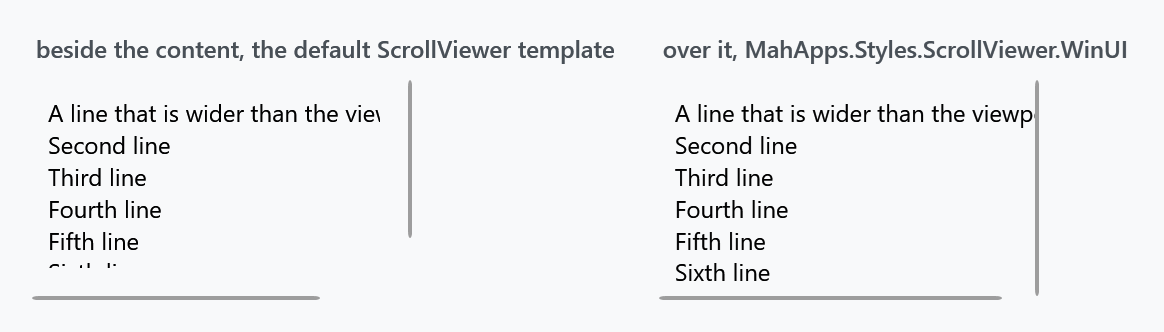
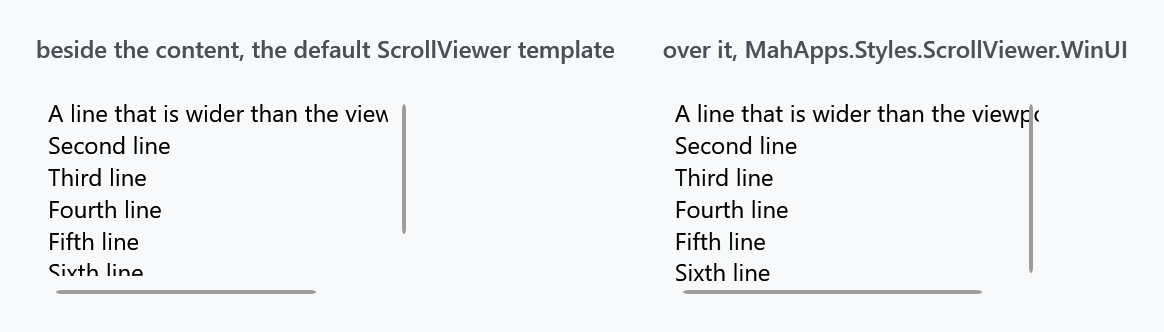
The panning indicator, and the WinUI bar at its own size
The hamburger menu draws a line while the pointer is elsewhere, so the
page says what it is and which style set decides how it looks. The WinUI
bar it grows into now carries the numbers out of WinUI's own theme
resources, twelve units rather than sixteen and a line three units in
rather than flush, and its chevrons keep their rows the way the Windows
10 bar beside it does.

The drop-in dictionary for 2.4.11 follows the library, and the figures
that show that bar are rendered again from it.

diff --git a/input/assets/xaml/Controls.ScrollBar.WinUI.xaml b/input/assets/xaml/Controls.ScrollBar.WinUI.xaml
@@ -1,4 +1,4 @@
-<ResourceDictionary xmlns="http://schemas.microsoft.com/winfx/2006/xaml/presentation"
+<ResourceDictionary xmlns="http://schemas.microsoft.com/winfx/2006/xaml/presentation"
                     xmlns:x="http://schemas.microsoft.com/winfx/2006/xaml"
                     xmlns:mah="clr-namespace:MahApps.Metro.Controls;assembly=MahApps.Metro"
                     xmlns:system="clr-namespace:System;assembly=mscorlib">
@@ -27,12 +27,12 @@
         and ScrollViewer implicit styles based on the two below.
     -->
 
-    <system:Double x:Key="MahApps.Sizes.ScrollBar.WinUI">16</system:Double>
+    <system:Double x:Key="MahApps.Sizes.ScrollBar.WinUI">12</system:Double>
     <system:Double x:Key="MahApps.Sizes.ScrollBar.WinUI.Indicator">2</system:Double>
     <system:Double x:Key="MahApps.Sizes.ScrollBar.WinUI.Thumb">6</system:Double>
-    <system:Double x:Key="MahApps.Sizes.ScrollBar.WinUI.Thumb.MinLength">24</system:Double>
+    <system:Double x:Key="MahApps.Sizes.ScrollBar.WinUI.Thumb.MinLength">30</system:Double>
 
-    <CornerRadius x:Key="MahApps.CornerRadius.ScrollBar.WinUI">8</CornerRadius>
+    <CornerRadius x:Key="MahApps.CornerRadius.ScrollBar.WinUI">6</CornerRadius>
     <CornerRadius x:Key="MahApps.CornerRadius.ScrollBar.WinUI.Thumb">3</CornerRadius>
 
     <Duration x:Key="MahApps.Duration.ScrollBar.WinUI">0:0:0.12</Duration>
@@ -42,7 +42,7 @@
     <Geometry x:Key="MahApps.Geometry.ScrollBar.WinUI.Left">M 3,0 L 0,3 L 3,6</Geometry>
     <Geometry x:Key="MahApps.Geometry.ScrollBar.WinUI.Right">M 0,0 L 3,3 L 0,6</Geometry>
 
-    <!--  The chevrons, which exist only while the bar is expanded.  -->
+    <!--  The chevrons, which keep their rows the whole time and are only faded.  -->
     <Style x:Key="MahApps.Styles.RepeatButton.ScrollBar.WinUI.Line" TargetType="{x:Type RepeatButton}">
         <Setter Property="Background" Value="Transparent" />
         <Setter Property="Focusable" Value="False" />
@@ -132,12 +132,11 @@
            BasedOn="{StaticResource MahApps.Styles.Thumb.ScrollBar.WinUI}"
            TargetType="{x:Type Thumb}">
         <!--
-            Flush against the edge of the content. The template animates the
-            margin out to 5 as the bar expands, which is what leaves the 6 unit
-            thumb in the middle of the 16 unit panel.
+            Three units from the edge of the content, which is where WinUI holds
+            the line and the thumb alike: the thumb grows inwards from there.
         -->
         <Setter Property="HorizontalAlignment" Value="Right" />
-        <Setter Property="Margin" Value="0" />
+        <Setter Property="Margin" Value="0 0 3 0" />
         <Setter Property="MinHeight" Value="{DynamicResource MahApps.Sizes.ScrollBar.WinUI.Thumb.MinLength}" />
         <Setter Property="Width" Value="{DynamicResource MahApps.Sizes.ScrollBar.WinUI.Indicator}" />
     </Style>
@@ -146,7 +145,7 @@
            BasedOn="{StaticResource MahApps.Styles.Thumb.ScrollBar.WinUI}"
            TargetType="{x:Type Thumb}">
         <Setter Property="Height" Value="{DynamicResource MahApps.Sizes.ScrollBar.WinUI.Indicator}" />
-        <Setter Property="Margin" Value="0" />
+        <Setter Property="Margin" Value="0 0 0 3" />
         <Setter Property="MinWidth" Value="{DynamicResource MahApps.Sizes.ScrollBar.WinUI.Thumb.MinLength}" />
         <Setter Property="VerticalAlignment" Value="Bottom" />
     </Style>
@@ -173,8 +172,7 @@
                               Command="ScrollBar.LineUpCommand"
                               Content="{StaticResource MahApps.Geometry.ScrollBar.WinUI.Up}"
                               Opacity="0"
-                              Style="{DynamicResource MahApps.Styles.RepeatButton.ScrollBar.WinUI.Line}"
-                              Visibility="Collapsed" />
+                              Style="{DynamicResource MahApps.Styles.RepeatButton.ScrollBar.WinUI.Line}" />
                 <Track x:Name="PART_Track" Grid.Row="1" IsDirectionReversed="True">
                     <Track.Resources>
                         <system:Double x:Key="{x:Static SystemParameters.VerticalScrollBarButtonHeightKey}">24</system:Double>
@@ -195,20 +193,11 @@
                               Command="ScrollBar.LineDownCommand"
                               Content="{StaticResource MahApps.Geometry.ScrollBar.WinUI.Down}"
                               Opacity="0"
-                              Style="{DynamicResource MahApps.Styles.RepeatButton.ScrollBar.WinUI.Line}"
-                              Visibility="Collapsed" />
+                              Style="{DynamicResource MahApps.Styles.RepeatButton.ScrollBar.WinUI.Line}" />
             </Grid>
         </Grid>
         <ControlTemplate.Triggers>
             <Trigger Property="IsMouseOver" Value="True">
-                <!--
-                    The chevrons take their rows the moment they become visible,
-                    so the track shortens and the thumb shifts a little. That is
-                    what the two visualisations do in WinUI as well: the panning
-                    indicator runs the full height, the expanded bar does not.
-                -->
-                <Setter TargetName="LineUp" Property="Visibility" Value="Visible" />
-                <Setter TargetName="LineDown" Property="Visibility" Value="Visible" />
                 <Trigger.EnterActions>
                     <BeginStoryboard>
                         <Storyboard>
@@ -226,16 +215,12 @@
                                              Duration="{StaticResource MahApps.Duration.ScrollBar.WinUI}" />
                             <DoubleAnimation Storyboard.TargetName="Panel"
                                              Storyboard.TargetProperty="Width"
-                                             To="16"
+                                             To="12"
                                              Duration="{StaticResource MahApps.Duration.ScrollBar.WinUI}" />
                             <DoubleAnimation Storyboard.TargetName="Thumb"
                                              Storyboard.TargetProperty="Width"
                                              To="6"
                                              Duration="{StaticResource MahApps.Duration.ScrollBar.WinUI}" />
-                            <ThicknessAnimation Storyboard.TargetName="Thumb"
-                                                Storyboard.TargetProperty="Margin"
-                                                To="0 0 5 0"
-                                                Duration="{StaticResource MahApps.Duration.ScrollBar.WinUI}" />
                         </Storyboard>
                     </BeginStoryboard>
                 </Trigger.EnterActions>
@@ -262,10 +247,6 @@
                                              Storyboard.TargetProperty="Width"
                                              To="2"
                                              Duration="{StaticResource MahApps.Duration.ScrollBar.WinUI}" />
-                            <ThicknessAnimation Storyboard.TargetName="Thumb"
-                                                Storyboard.TargetProperty="Margin"
-                                                To="0"
-                                                Duration="{StaticResource MahApps.Duration.ScrollBar.WinUI}" />
                         </Storyboard>
                     </BeginStoryboard>
                 </Trigger.ExitActions>
@@ -298,8 +279,7 @@
                               Command="ScrollBar.LineLeftCommand"
                               Content="{StaticResource MahApps.Geometry.ScrollBar.WinUI.Left}"
                               Opacity="0"
-                              Style="{DynamicResource MahApps.Styles.RepeatButton.ScrollBar.WinUI.Line}"
-                              Visibility="Collapsed" />
+                              Style="{DynamicResource MahApps.Styles.RepeatButton.ScrollBar.WinUI.Line}" />
                 <Track x:Name="PART_Track" Grid.Column="1" IsDirectionReversed="False">
                     <Track.Resources>
                         <system:Double x:Key="{x:Static SystemParameters.HorizontalScrollBarButtonWidthKey}">24</system:Double>
@@ -320,14 +300,11 @@
                               Command="ScrollBar.LineRightCommand"
                               Content="{StaticResource MahApps.Geometry.ScrollBar.WinUI.Right}"
                               Opacity="0"
-                              Style="{DynamicResource MahApps.Styles.RepeatButton.ScrollBar.WinUI.Line}"
-                              Visibility="Collapsed" />
+                              Style="{DynamicResource MahApps.Styles.RepeatButton.ScrollBar.WinUI.Line}" />
             </Grid>
         </Grid>
         <ControlTemplate.Triggers>
             <Trigger Property="IsMouseOver" Value="True">
-                <Setter TargetName="LineLeft" Property="Visibility" Value="Visible" />
-                <Setter TargetName="LineRight" Property="Visibility" Value="Visible" />
                 <Trigger.EnterActions>
                     <BeginStoryboard>
                         <Storyboard>
@@ -345,16 +322,12 @@
                                              Duration="{StaticResource MahApps.Duration.ScrollBar.WinUI}" />
                             <DoubleAnimation Storyboard.TargetName="Panel"
                                              Storyboard.TargetProperty="Height"
-                                             To="16"
+                                             To="12"
                                              Duration="{StaticResource MahApps.Duration.ScrollBar.WinUI}" />
                             <DoubleAnimation Storyboard.TargetName="Thumb"
                                              Storyboard.TargetProperty="Height"
                                              To="6"
                                              Duration="{StaticResource MahApps.Duration.ScrollBar.WinUI}" />
-                            <ThicknessAnimation Storyboard.TargetName="Thumb"
-                                                Storyboard.TargetProperty="Margin"
-                                                To="0 0 0 5"
-                                                Duration="{StaticResource MahApps.Duration.ScrollBar.WinUI}" />
                         </Storyboard>
                     </BeginStoryboard>
                 </Trigger.EnterActions>
@@ -381,10 +354,6 @@
                                              Storyboard.TargetProperty="Height"
                                              To="2"
                                              Duration="{StaticResource MahApps.Duration.ScrollBar.WinUI}" />
-                            <ThicknessAnimation Storyboard.TargetName="Thumb"
-                                                Storyboard.TargetProperty="Margin"
-                                                To="0"
-                                                Duration="{StaticResource MahApps.Duration.ScrollBar.WinUI}" />
                         </Storyboard>
                     </BeginStoryboard>
                 </Trigger.ExitActions>
@@ -396,7 +365,7 @@
     </ControlTemplate>
 
     <Style x:Key="MahApps.Styles.ScrollBar.WinUI" TargetType="{x:Type ScrollBar}">
-        <!--  Transparent, not unset: all 16 units have to answer hit tests or the pointer never reaches the bar.  -->
+        <!--  Transparent, not unset: all 12 units have to answer hit tests or the pointer never reaches the bar.  -->
         <Setter Property="Background" Value="Transparent" />
         <Setter Property="OverridesDefaultStyle" Value="True" />
         <Setter Property="SnapsToDevicePixels" Value="True" />

diff --git a/input/docs/styles/scrollbars.md b/input/docs/styles/scrollbars.md
@@ -108,7 +108,7 @@ Both are keyed, so nothing changes until you apply one, either per bar or throug
 
 Either style set already does that for you: [Win 10 (UWP)](../stylevariants/win10) applies the Windows 10 bar, [WinUI](../stylevariants/winui) the WinUI one, and each of them applies the overlaying scroll viewer below with it.
 
-Both are two-state bars, which is the part that matters for layout: while the pointer is elsewhere a bar paints two of its sixteen units and nothing else, so it is meant to lie *over* the content rather than beside it.
+Both are two-state bars, which is the part that matters for layout: while the pointer is elsewhere a bar paints a two-unit line and nothing else, whether its column is the sixteen units of the Windows 10 bar or the twelve of the WinUI one, so it is meant to lie *over* the content rather than beside it.
 
 :::{.alert .alert-info}
 **Both keys are on `develop` and in no release yet.** 2.4.11 has neither, and for that version this site ships the same two looks as drop-in dictionaries, written before they moved into the library and keyed the same way, so nothing has to be renamed afterwards. The Windows 10 file is the older, always-visible desktop bar, which is what the figure above shows as well; the style in the library opens and closes the way this page describes. [`Controls.ScrollBar.Win10.xaml`](../../assets/xaml/Controls.ScrollBar.Win10.xaml) and [`Controls.ScrollBar.WinUI.xaml`](../../assets/xaml/Controls.ScrollBar.WinUI.xaml). Merge one after `Controls.xaml` and apply it the same way:
@@ -123,23 +123,25 @@ Both are two-state bars, which is the part that matters for layout: while the po
 
 Microsoft's [scroll viewer guidance](https://learn.microsoft.com/windows/apps/develop/ui/controls/scroll-controls) treats the Fluent scrollbar as two separate visualisations rather than one state with a hover effect: a panning indicator, and the traditional scrollbar thumb. Which one you see depends on how the region is being scrolled.
 
-The indicator is a two-unit line at the edge of the content, and that is all there is while the pointer is elsewhere. When the pointer moves over it, it **morphs into the scrollbar proper**: a six-unit thumb on a rounded panel, with a chevron button at each end.
+The indicator is a two-unit line near the edge of the content, and that is all there is while the pointer is elsewhere. When the pointer moves over it, it **morphs into the scrollbar proper**: a six-unit thumb on a rounded panel, with a chevron button at each end.
 
 ![The WinUI bar as an indicator and as a full scrollbar](images/scrollbars-winui-states.png)
 
-**The outer edge is the anchor.** The indicator sits flush against the edge of the content, and everything that appears on hover grows *inwards* — leftwards for a vertical bar, upwards for a horizontal one. `IsMouseOver` runs all of it over 0.12 seconds:
+**The line's own edge is the anchor.** It keeps three units from the edge of the content and stays there, and everything that appears on hover grows *inwards* — leftwards for a vertical bar, upwards for a horizontal one. `IsMouseOver` runs all of it over 0.12 seconds:
 
 | | at rest | expanded |
 | --- | --- | --- |
-| panel | 6 units wide, invisible | 16 units, opaque |
-| thumb | 2 units, flush at the edge | 6 units, 5 in from it — centred in the panel |
-| chevrons | not there | fading in at both ends |
+| panel | 6 units wide, invisible | 12 units, opaque |
+| thumb | 2 units, 3 in from the edge | 6 units, still 3 in from the edge |
+| chevrons | in place, invisible | in place, visible |
 
-The thumb slides inwards through a `ThicknessAnimation` on its `Margin` while a `DoubleAnimation` widens it, so the two move together and the edge stays put. The exit actions reverse everything.
+Only the width is animated; the margin that holds those three units never moves, so the thumb grows inwards on its own. The exit actions reverse everything.
 
-The chevrons take their rows the moment they appear, so the track shortens and the thumb shifts slightly. That is not a flaw to design around: the two visualisations genuinely have different track lengths in WinUI too, because the indicator runs the full height and the expanded bar does not.
+The numbers are WinUI's, out of `ScrollBar_themeresources.xaml`: `ScrollBarSize` 12, `ScrollBarVerticalThumbMinHeight` 30, and a resting thumb of eight drawn with a stroke of six and pushed out by `ScrollBarThumbOffset` 2, which is how three units of air and a two-unit line fall out of it over there. Here they are a margin and a width, which comes to the same picture.
 
-The Windows 10 bar works the same way, with its own numbers and one difference in structure. Its chevrons keep their rows the whole time and are only faded, so its track never changes length and its line never jumps, which is how the system XAML of the Windows SDK arranges it. Square rather than rounded, a filled track at nine tenths opacity instead of a panel, and a thumb that grows to the full sixteen units instead of to six:
+The chevrons keep their rows the whole time and are only faded, which is what WinUI does as well: over there the two repeat buttons are a row of `ScrollBarSize` with an opacity of nothing. The track therefore never changes length, and the line at rest stands exactly where the thumb will be.
+
+The Windows 10 bar works the same way, with its own numbers. Square rather than rounded, a filled track at nine tenths opacity instead of a panel, and a thumb that grows to the full sixteen units instead of to six:
 
 | | at rest | expanded |
 | --- | --- | --- |
@@ -157,11 +159,11 @@ The same guidance is explicit about layout:
 
 > overlaid as 16px on top of the content inside your ScrollViewer
 
-That matters more than it sounds. WPF's `ScrollViewer` template puts each bar in its own grid cell, so sixteen units are reserved whether or not anything is drawn in them — around a two-unit line, most of that column is empty:
+That matters more than it sounds. WPF's `ScrollViewer` template puts each bar in its own grid cell, so the whole width of the bar is reserved whether or not anything is drawn in it — around a two-unit line, most of that column is empty:
 
 ![The same bar beside the content and over it](images/scrollbars-winui-overlay.png)
 
-There is therefore a scroll viewer whose template lays both bars over the content instead of beside it. One template, `MahApps.Templates.ScrollViewer.Overlay`, carried by a style per look, since a bar that paints two of its sixteen units asks the same of its viewer whichever of the two it is:
+There is therefore a scroll viewer whose template lays both bars over the content instead of beside it. One template, `MahApps.Templates.ScrollViewer.Overlay`, carried by a style per look, since a bar that paints two units of its column asks the same of its viewer whichever of the two it is:
 
 ```xml
 <Style BasedOn="{StaticResource MahApps.Styles.ScrollViewer.WinUI}" TargetType="{x:Type ScrollViewer}" />

diff --git a/input/docs/controls/HamburgerMenu.md b/input/docs/controls/HamburgerMenu.md
@@ -105,13 +105,15 @@ Header and separator items are not selectable, but they *do* occupy an index. Wa
 
 `VerticalScrollBarOnLeftSide` puts the item list's scroll bar on the left, which reads better when the pane sits on the right.
 
-`VerticalScrollBarVisibility` says when the item list shows that scroll bar. The default `Auto` fades it in while the pointer is over the open pane and fades it out again a second after the pointer has left, so a pane with more items than room looks exactly like one without until somebody hovers over it. `Visible` keeps the bar there for as long as the pane is open, which is what you want when the reader should see at a glance that the menu goes on. `Hidden` and `Disabled` take it away. `OptionsVerticalScrollBarVisibility` does the same for the options list at the bottom, where the default is `Disabled`. A closed pane never shows a bar, whatever the setting, since it would sit on top of the icons.
+`VerticalScrollBarVisibility` says when the item list shows that scroll bar. The default `Auto` fades it in while the pointer is over the pane and fades it out again a second after the pointer has left. `Visible` keeps the bar there, which is what you want when the reader should see at a glance that the menu goes on. `Hidden` and `Disabled` take it away. `OptionsVerticalScrollBarVisibility` does the same for the options list at the bottom, where the default is `Disabled`.
+
+A list with more items than room says so even while the pointer is somewhere else. The panning indicator, two units at the edge of the items, is as long and as far down as the thumb of the bar it stands for, and it steps aside as soon as that bar comes in. Two units fit a closed pane as well, where the bar itself would lie on the icons, so the strip of icons says where in the menu the reader is just as the open pane does. The line is the one the scroll bar of your style set draws at rest, so an application that pins `MahApps.Styles.ScrollBar.Win10` or `MahApps.Styles.ScrollBar.WinUI` instead of merging the set should pin `MahApps.Styles.Thumb.ScrollBar.PanningIndicator` along with it.
 
 ```xml
 <mah:HamburgerMenu VerticalScrollBarVisibility="Visible" />
 ```
 
-**Both properties are new on `develop` and ship with the next release** ([#4549](https://github.com/MahApps/MahApps.Metro/issues/4549)). Up to and including 2.4.11 the two lists get `Auto` and `Disabled` from the template, where nothing can override them: `ScrollViewer.VerticalScrollBarVisibility` on the menu itself does not reach the lists inside it.
+**Both properties and the panning indicator are new on `develop` and ship with the next release** ([#4549](https://github.com/MahApps/MahApps.Metro/issues/4549), [#3568](https://github.com/MahApps/MahApps.Metro/issues/3568)). Up to and including 2.4.11 the two lists get `Auto` and `Disabled` from the template, where nothing can override them: `ScrollViewer.VerticalScrollBarVisibility` on the menu itself does not reach the lists inside it.
 
 ## The hamburger button and the pane header
 
